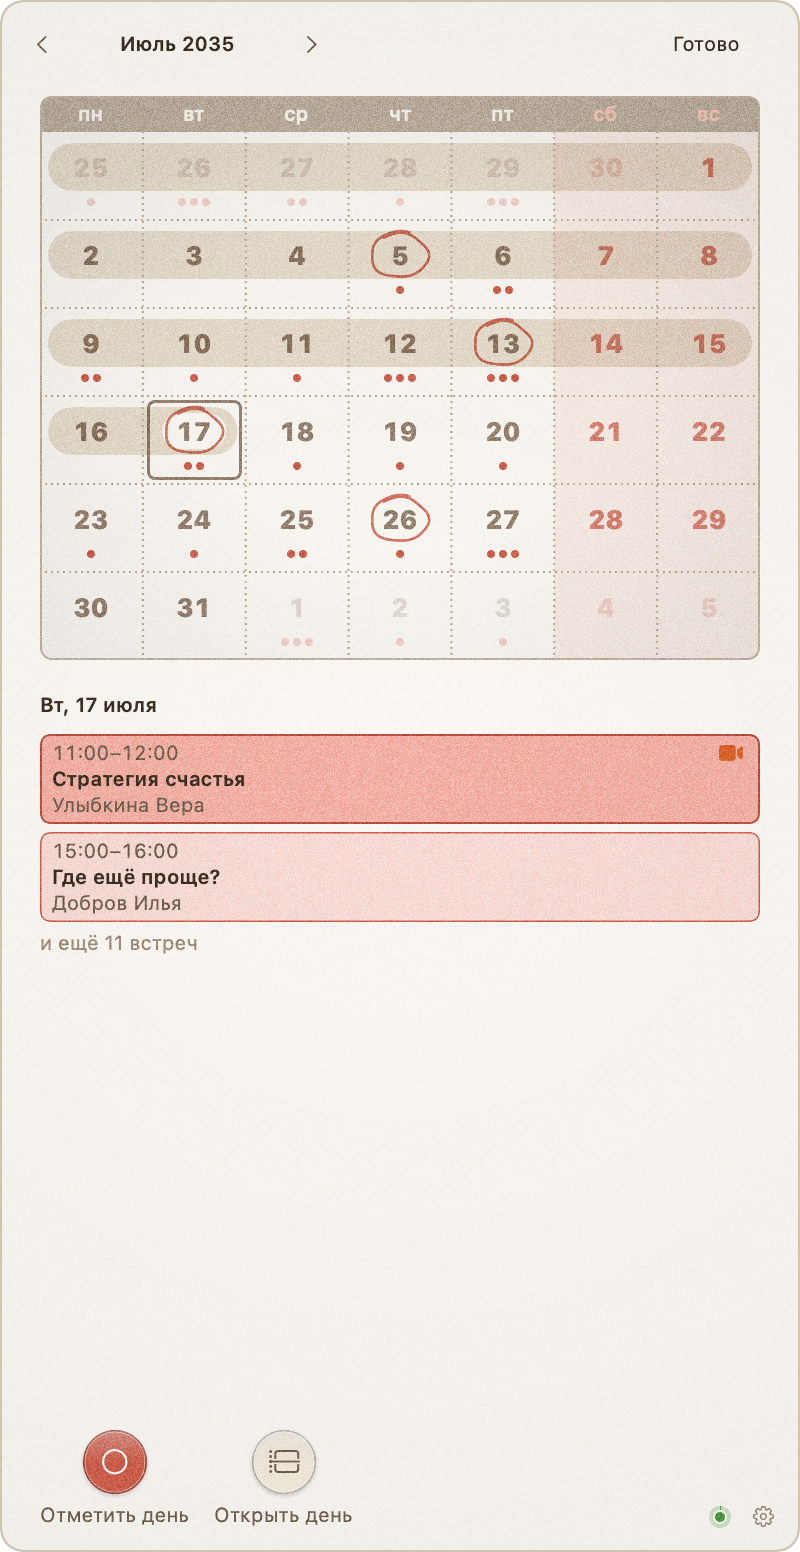
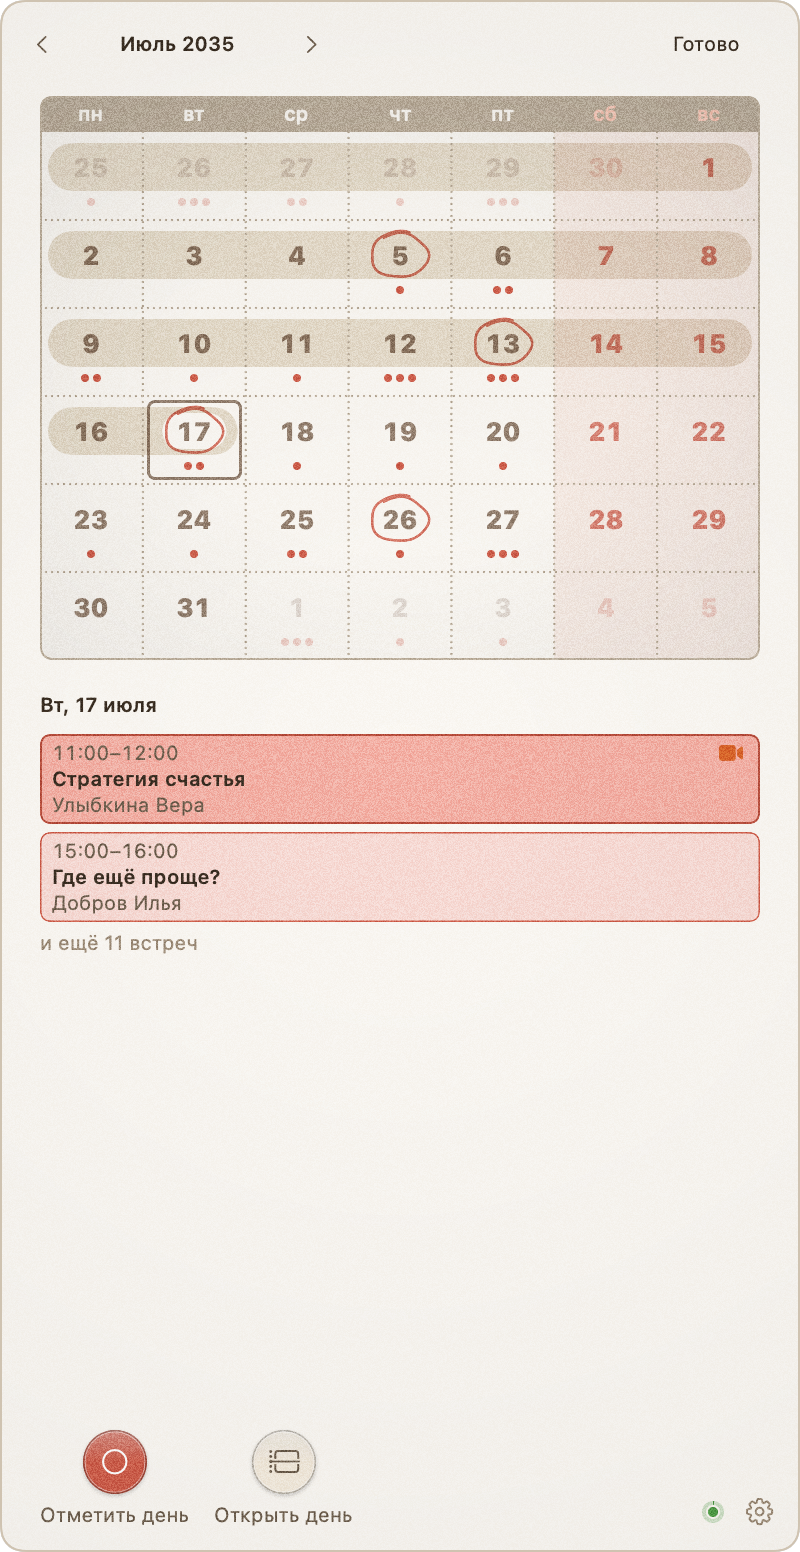
Шестерёнка в месяце — того же размера, что на дне; «Обновить сейчас» перед «Паузой»
Месяц задаёт всей карточке шрифт 10 pt, и значок настроек мельчал вместе с ним. Теперь размер
у значка свой, 13 pt, в обоих местах.

Claude-Session: https://claude.ai/code/session_01SW6W8P3aC11VdsTxCJVhW8

diff --git a/Sources/Butler/Exchange.swift b/Sources/Butler/Exchange.swift
@@ -443,13 +443,13 @@ struct Indicator: View {
                 // Крупные кругляши, как во всплывашке встречи; пауза включена — кругляш красный, как отметка дня.
                 HStack(alignment: .top, spacing: 0) {
                     let paused = app.config.paused
-                    Action(symbol: paused ? "play.fill" : "pause.fill", title: paused ? "Продолжить" : "Пауза",
-                           color: paused ? 0xCF5F4C : 0xF3EBDD, hoverColor: paused ? 0xB84F3E : 0xE6D8C2,
-                           iconColor: paused ? .white : Ink.secondary) { app.togglePause() }
                     // На паузе и пока идёт обращение обновлять нечем: запрос либо запрещён, либо уже идёт.
                     Action(symbol: "arrow.clockwise", title: "Обновить сейчас") { app.refreshNow() }
                         .disabled(paused || app.syncingSince != nil)
                         .opacity(paused || app.syncingSince != nil ? 0.4 : 1)
+                    Action(symbol: paused ? "play.fill" : "pause.fill", title: paused ? "Продолжить" : "Пауза",
+                           color: paused ? 0xCF5F4C : 0xF3EBDD, hoverColor: paused ? 0xB84F3E : 0xE6D8C2,
+                           iconColor: paused ? .white : Ink.secondary) { app.togglePause() }
                 }
                 .padding(.top, 6)
             }

diff --git a/Sources/Butler/Panel.swift b/Sources/Butler/Panel.swift
@@ -299,7 +299,7 @@ struct DayView: View {
                     Text(trouble).font(Ink.body).foregroundStyle(Ink.alert).lineLimit(1)
                 }
                 Indicator(app: app)
-                Button { app.openSettings() } label: { Image(systemName: "gearshape") }
+                Button { app.openSettings() } label: { Image(systemName: "gearshape").font(.system(size: 13)) }
                     .buttonStyle(Hover(padding: 4))
                     .foregroundStyle(Ink.tertiary)
                     .help("Настройки")

diff --git a/Sources/Butler/Month.swift b/Sources/Butler/Month.swift
@@ -299,7 +299,7 @@ struct MonthView: View {
                 Spacer()
                 HStack(spacing: 2) {
                     Indicator(app: app)
-                    Button { app.openSettings() } label: { Image(systemName: "gearshape") }
+                    Button { app.openSettings() } label: { Image(systemName: "gearshape").font(.system(size: 13)) }
                         .buttonStyle(Hover(padding: 4))
                         .foregroundStyle(Ink.tertiary)
                         .help("Настройки")
